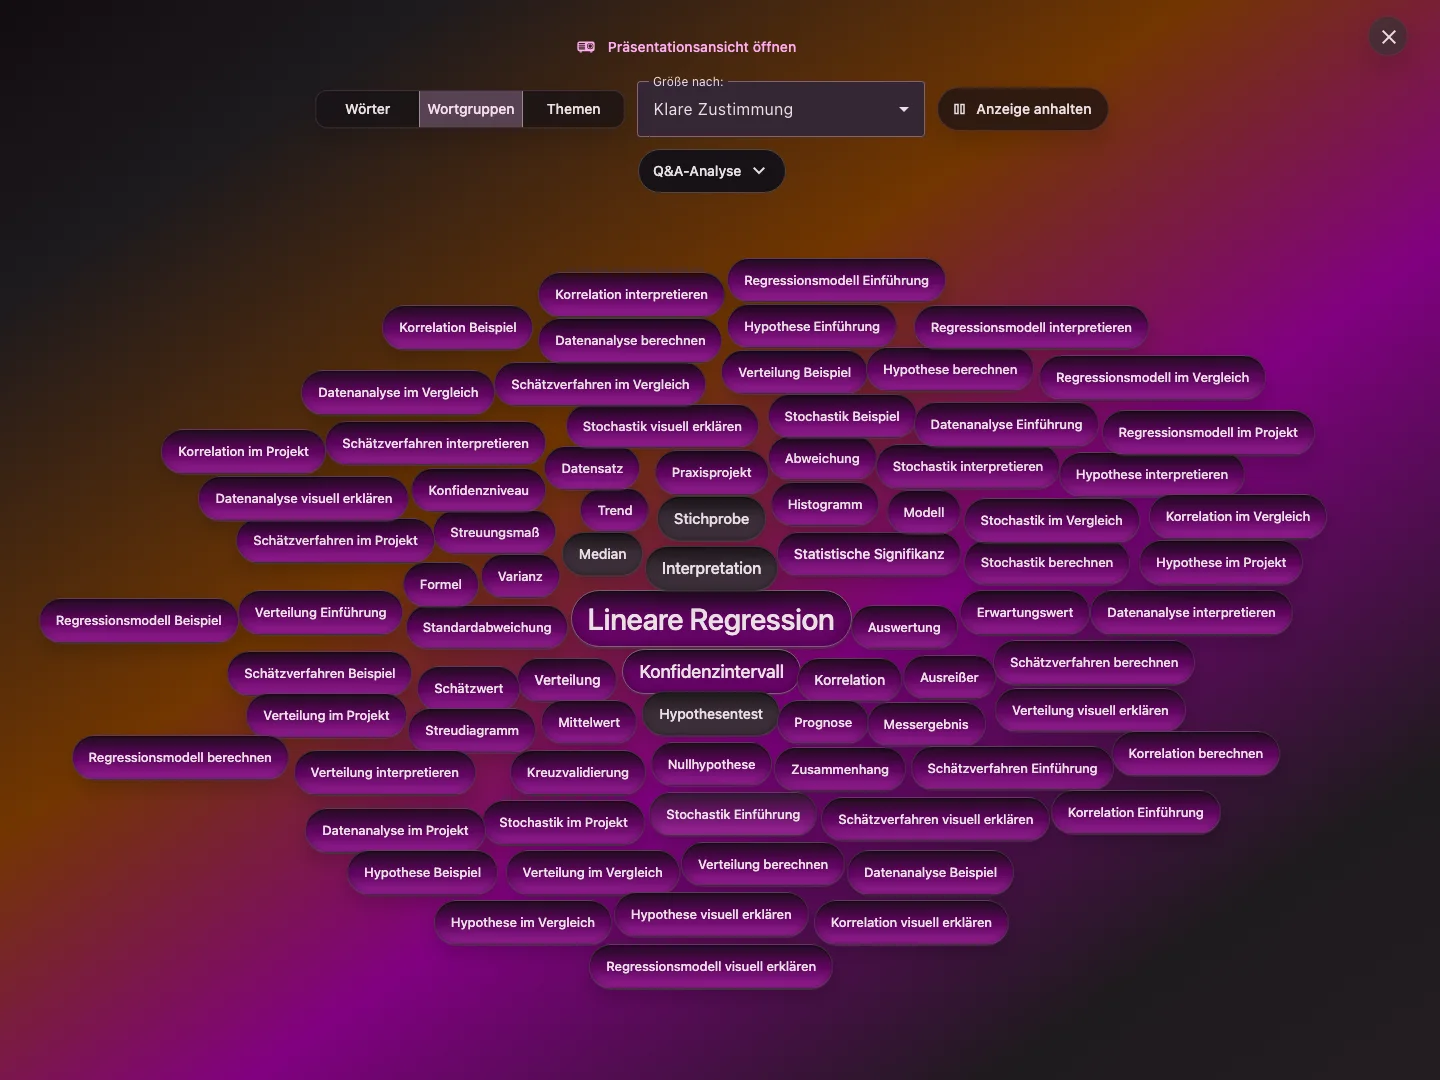
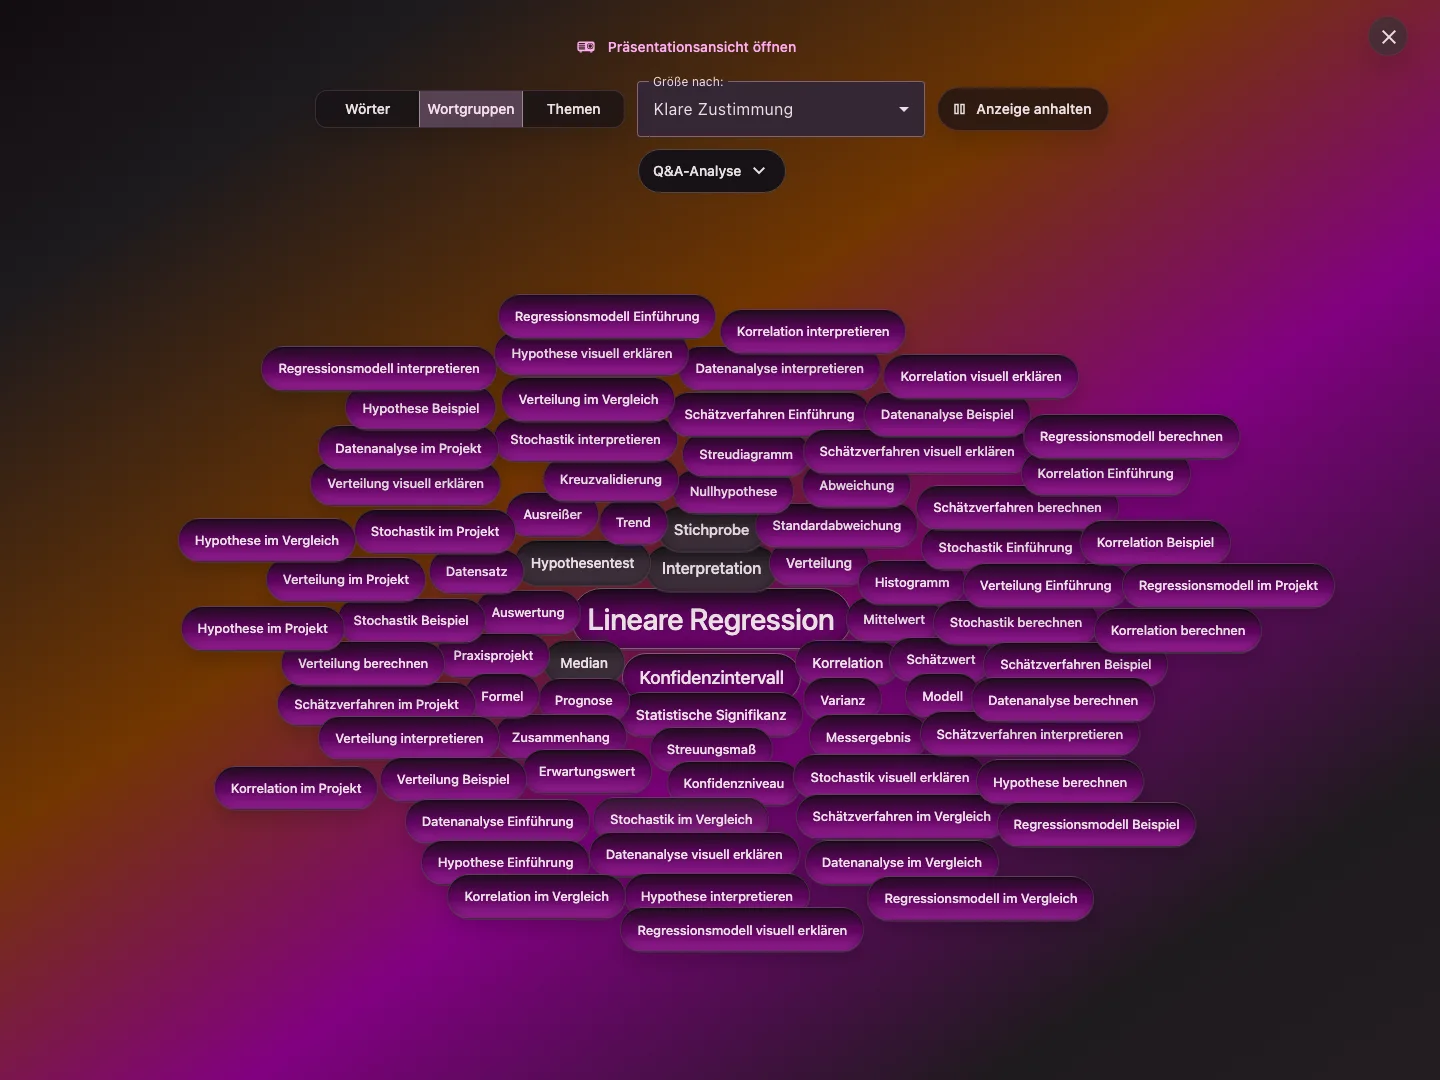
Vary Q&A word cloud edge overlaps up to 12 pixels

diff --git a/apps/frontend/src/app/features/session/session-present/word-cloud-layout.spec.ts b/apps/frontend/src/app/features/session/session-present/word-cloud-layout.spec.ts
@@ -45,7 +45,7 @@ describe('word-cloud layout helpers', () => {
         right: left + sizes[i]!.width,
         bottom: top + sizes[i]!.height,
       }));
-      let overlaps = 0;
+      const overlaps: number[] = [];
       for (const [i, box] of boxes.entries()) {
         expect(box.left).toBeGreaterThanOrEqual(7.99);
         expect(box.right).toBeLessThanOrEqual(stageWidth - 7.99);
@@ -57,15 +57,16 @@ describe('word-cloud layout helpers', () => {
             Math.min(box.right, neighbor.right) - Math.max(box.left, neighbor.left);
           const vertical = Math.min(box.bottom, neighbor.bottom) - Math.max(box.top, neighbor.top);
           if (horizontal > 0 && vertical > 0) {
-            overlaps++;
-            expect(Math.min(horizontal, vertical)).toBeLessThanOrEqual(4.001);
+            overlaps.push(Math.min(horizontal, vertical));
           }
         }
       }
       if (allowOverlap) {
-        expect(overlaps).toBeGreaterThan(0);
+        expect(Math.max(...overlaps)).toBeGreaterThan(10);
+        expect(Math.min(...overlaps)).toBeLessThan(5);
+        expect(Math.max(...overlaps)).toBeLessThanOrEqual(12.001);
       } else {
-        expect(overlaps).toBe(0);
+        expect(overlaps).toHaveLength(0);
       }
     },
   );

diff --git a/apps/frontend/src/app/features/session/session-present/word-cloud-layout.ts b/apps/frontend/src/app/features/session/session-present/word-cloud-layout.ts
@@ -237,7 +237,7 @@ interface WordCloudPillSize {
   readonly height: number;
 }
 
-/** Pack measured pills from the strongest term outwards. The caller keeps text at least 8 px inside each pill. */
+/** Pack measured pills from the strongest term outwards. The caller keeps text at least 12 px inside each pill. */
 export function packWordCloudPills(
   sizes: readonly WordCloudPillSize[],
   stageWidth: number,
@@ -258,8 +258,8 @@ export function packWordCloudPills(
 
   const aspect = 1.65;
   const stagger = [-0.68, -0.32, 0.18, 0.48, 0.72];
-  const edgeGaps = allowOverlap ? [-4, 1, -2, 4] : [3];
-  const minimumGap = allowOverlap ? -4 : 3;
+  const minimumGap = allowOverlap ? -12 : 3;
+  const edgeGaps = allowOverlap ? [minimumGap, 2, -6, -9, 4, -3] : [minimumGap];
   const placed: Array<WordCloudPillSize & { x: number; y: number }> = [];
   let cloudTop = 0;
   let cloudBottom = 0;

diff --git a/apps/frontend/src/app/features/session/session-present/word-cloud.component.scss b/apps/frontend/src/app/features/session/session-present/word-cloud.component.scss
@@ -957,8 +957,8 @@
   .word-cloud__word {
     inline-size: max-content;
     max-inline-size: min(100%, 28rem);
-    padding-block: max(8px, clamp(0.5rem, 0.32em, 0.9rem));
-    padding-inline: max(8px, 1rem);
+    padding-block: max(12px, clamp(0.5rem, 0.32em, 0.9rem));
+    padding-inline: max(12px, 1rem);
   }
 }
 
@@ -972,7 +972,7 @@
     &:focus-visible {
       z-index: 1;
       outline: 2px solid var(--mat-sys-primary);
-      outline-offset: 2px;
+      outline-offset: -2px;
     }
   }
 }

diff --git a/docs/features/word-cloud-semantic.md b/docs/features/word-cloud-semantic.md
@@ -47,7 +47,7 @@ Texte sind in `de`, `en`, `fr`, `es` und `it` gepflegt.
 
 Die Ansichten heißen **Wörter**, **Wortgruppen** und **Themen**. Der kurze Hinweis zur Verarbeitung beschreibt die sichtbare Ansicht, auch wenn gerade eine Ersatzansicht angezeigt wird. Er nennt die Grundform-Bündelung, sobald ein entsprechender Lemma-Snapshot sichtbar ist. Im Q&A-Host-Dialog steht dieser Hinweis unter **Q&A-Analyse**. Bei Freitext steht er unter der Ansichtsauswahl, die Sprachwahl und **Nach Grundform bündeln** stehen dort unter **Weitere Optionen**.
 
-Im Host-Dialog nehmen die Wortwolke und die obere Aktionsleiste die erste Ansicht ein. **Q&A-Analyse** bündelt die Herkunft der sichtbaren Themennamen, die Erläuterung zur gewählten Ansicht und Gewichtung, Kennzahlen, Gruppierungsprüfung, zugehörige Fragen, Sprachwahl, Wortformenbündelung und Exporte. Das Akkordeon startet geschlossen. Ein Klick auf einen Begriff wählt ihn aus. Sein Wert, weitere gezählte Formen und zugehörige Fragen sind im Akkordeon einsehbar. Auf breiten Ansichten verteilen sich die Begriffe um den am stärksten gewichteten Begriff. Mit der Maus dürfen sich Kapselränder leicht überlappen, während die Schrift frei bleibt. Die Touch-Ziele halten Abstand. Auf schmalen Ansichten stehen die am stärksten gewichteten Begriffe zuerst und lange Themennamen können umbrechen. Eine erste laufende Themenanalyse zeigt den Fortschritt anstelle der Wolke. Beim Aktualisieren vorhandener Themen bleibt die Wolke sichtbar, der Detailbereich kennzeichnet ihren bisherigen Stand.
+Im Host-Dialog nehmen die Wortwolke und die obere Aktionsleiste die erste Ansicht ein. **Q&A-Analyse** bündelt die Herkunft der sichtbaren Themennamen, die Erläuterung zur gewählten Ansicht und Gewichtung, Kennzahlen, Gruppierungsprüfung, zugehörige Fragen, Sprachwahl, Wortformenbündelung und Exporte. Das Akkordeon startet geschlossen. Ein Klick auf einen Begriff wählt ihn aus. Sein Wert, weitere gezählte Formen und zugehörige Fragen sind im Akkordeon einsehbar. Auf breiten Ansichten verteilen sich die Begriffe um den am stärksten gewichteten Begriff. Mit der Maus können sich die Kapselränder unterschiedlich stark bis zu zwölf CSS-Pixel überlappen. Die Schrift bleibt frei. Die Touch-Ziele halten Abstand. Auf schmalen Ansichten stehen die am stärksten gewichteten Begriffe zuerst und lange Themennamen können umbrechen. Eine erste laufende Themenanalyse zeigt den Fortschritt anstelle der Wolke. Beim Aktualisieren vorhandener Themen bleibt die Wolke sichtbar, der Detailbereich kennzeichnet ihren bisherigen Stand.
 
 Die Q&A-Wolke öffnet aus Werkzeugen und Kompass zunächst ohne eigene Projektion und ohne zusätzlichen Statussatz. Ab Tabletgröße verwendet der Präsentationseinstieg dasselbe Beamer-Icon und abhängig vom Fensterzustand dasselbe Label **Präsentationsansicht öffnen**, **Zur Präsentationsansicht wechseln** oder **Live-Projektion fortsetzen** wie die übrige Host-Oberfläche. Auf Smartphones bleibt die Wortwolke eine reine Analyseansicht ohne Projektionsaktion oder Projektionsstatus. Beim Projizieren übernimmt ein gemeinsames Host-Kommando serverseitig den Q&A-Live-Kanal, den sichtbaren Wortwolken-Snapshot und die Q&A-Wortwolkenfläche; Status-Refreshes können den Start deshalb nicht mehr zwischen mehreren Client-Requests trennen. Die Projektion bleibt auch nach dem Quizabschluss während der gültigen Session- und Nachbesprechungsfrist steuerbar; nach Ablauf lehnt das Backend Änderungen weiter ab. Eine laufende Änderung und die bestätigte Projektion werden angekündigt; zum Beenden steht **Auf der Präsentation ausblenden** bereit. Bei Fehler bleibt die Aktion erneut erreichbar. Das Schließen einer selbst projizierten Wolke blendet diese zuerst bestätigt aus; bei Fehler bleibt der Dialog offen. Eine bereits von anderer Stelle projizierte Wolke wird beim Öffnen oder Schließen nicht übernommen.
 

diff --git a/docs/implementation/TEXT-ANALYSIS-ACCEPTANCE.md b/docs/implementation/TEXT-ANALYSIS-ACCEPTANCE.md
@@ -67,7 +67,7 @@ Die Browserabnahme umfasst 14 Chromium-Fälle mit einer lokalen Testsitzung und 
 
 Die Q&A-Wortwolke legt breite Ansichten vom stärksten Begriff nach außen. Sie verwendet die tatsächlich gerenderten Kapselmaße und hält die Schrift auch bei randlicher Überlappung frei. Die Kapseln auf Touch-Geräten haben getrennte Ziele. Auf schmalen Bildschirmen bleiben die wichtigsten Begriffe zuerst sichtbar. Das Akkordeon **Q&A-Analyse** startet weiterhin geschlossen.
 
-17 Chromium-Fälle prüfen die geschlossene und geöffnete Ansicht in fünf Sprachen, bei 320 und 390 CSS-Pixeln, mit 150 Prozent Schriftgröße, im Querformat und auf dem Desktop. Die Browserprüfung vergleicht die gerenderten Text- und Kapselrechtecke. Auf dem Desktop überlappen sich Kapselränder um höchstens vier CSS-Pixel, die Textrechtecke bleiben frei. Die Touch-Prüfung bei 840 Pixeln findet getrennte Ziele. Weitere Fälle prüfen den Fokus beim Größenwechsel, Belege und Exporte. Im Viewport von 1.440 × 1.080 CSS-Pixeln sind alle 80 Begriffe der dichten Wolke gleichzeitig sichtbar.
+17 Chromium-Fälle prüfen die geschlossene und geöffnete Ansicht in fünf Sprachen, bei 320 und 390 CSS-Pixeln, mit 150 Prozent Schriftgröße, im Querformat und auf dem Desktop. Die Browserprüfung vergleicht die gerenderten Text- und Kapselrechtecke. Auf dem Desktop variieren die Randüberlappungen bis zu zwölf CSS-Pixeln. Im dichten Test lagen sie bei bis zu 11,45 CSS-Pixeln. Die Schrift bleibt frei. Der Fokusumriss liegt innerhalb der Kapsel. Die Touch-Prüfung bei 840 Pixeln findet getrennte Ziele. Weitere Fälle prüfen den Fokus beim Größenwechsel, Belege und Exporte. Im Viewport von 1.440 × 1.080 CSS-Pixeln sind alle 80 Begriffe der dichten Wolke gleichzeitig sichtbar.
 
 - [Wolkenform auf dem Desktop](../screenshots/text-analysis-acceptance/qa-cloud-organic-desktop.webp)
 - [Dichte Wolke mit 80 Begriffen](../screenshots/text-analysis-acceptance/qa-cloud-organic-dense.webp)
